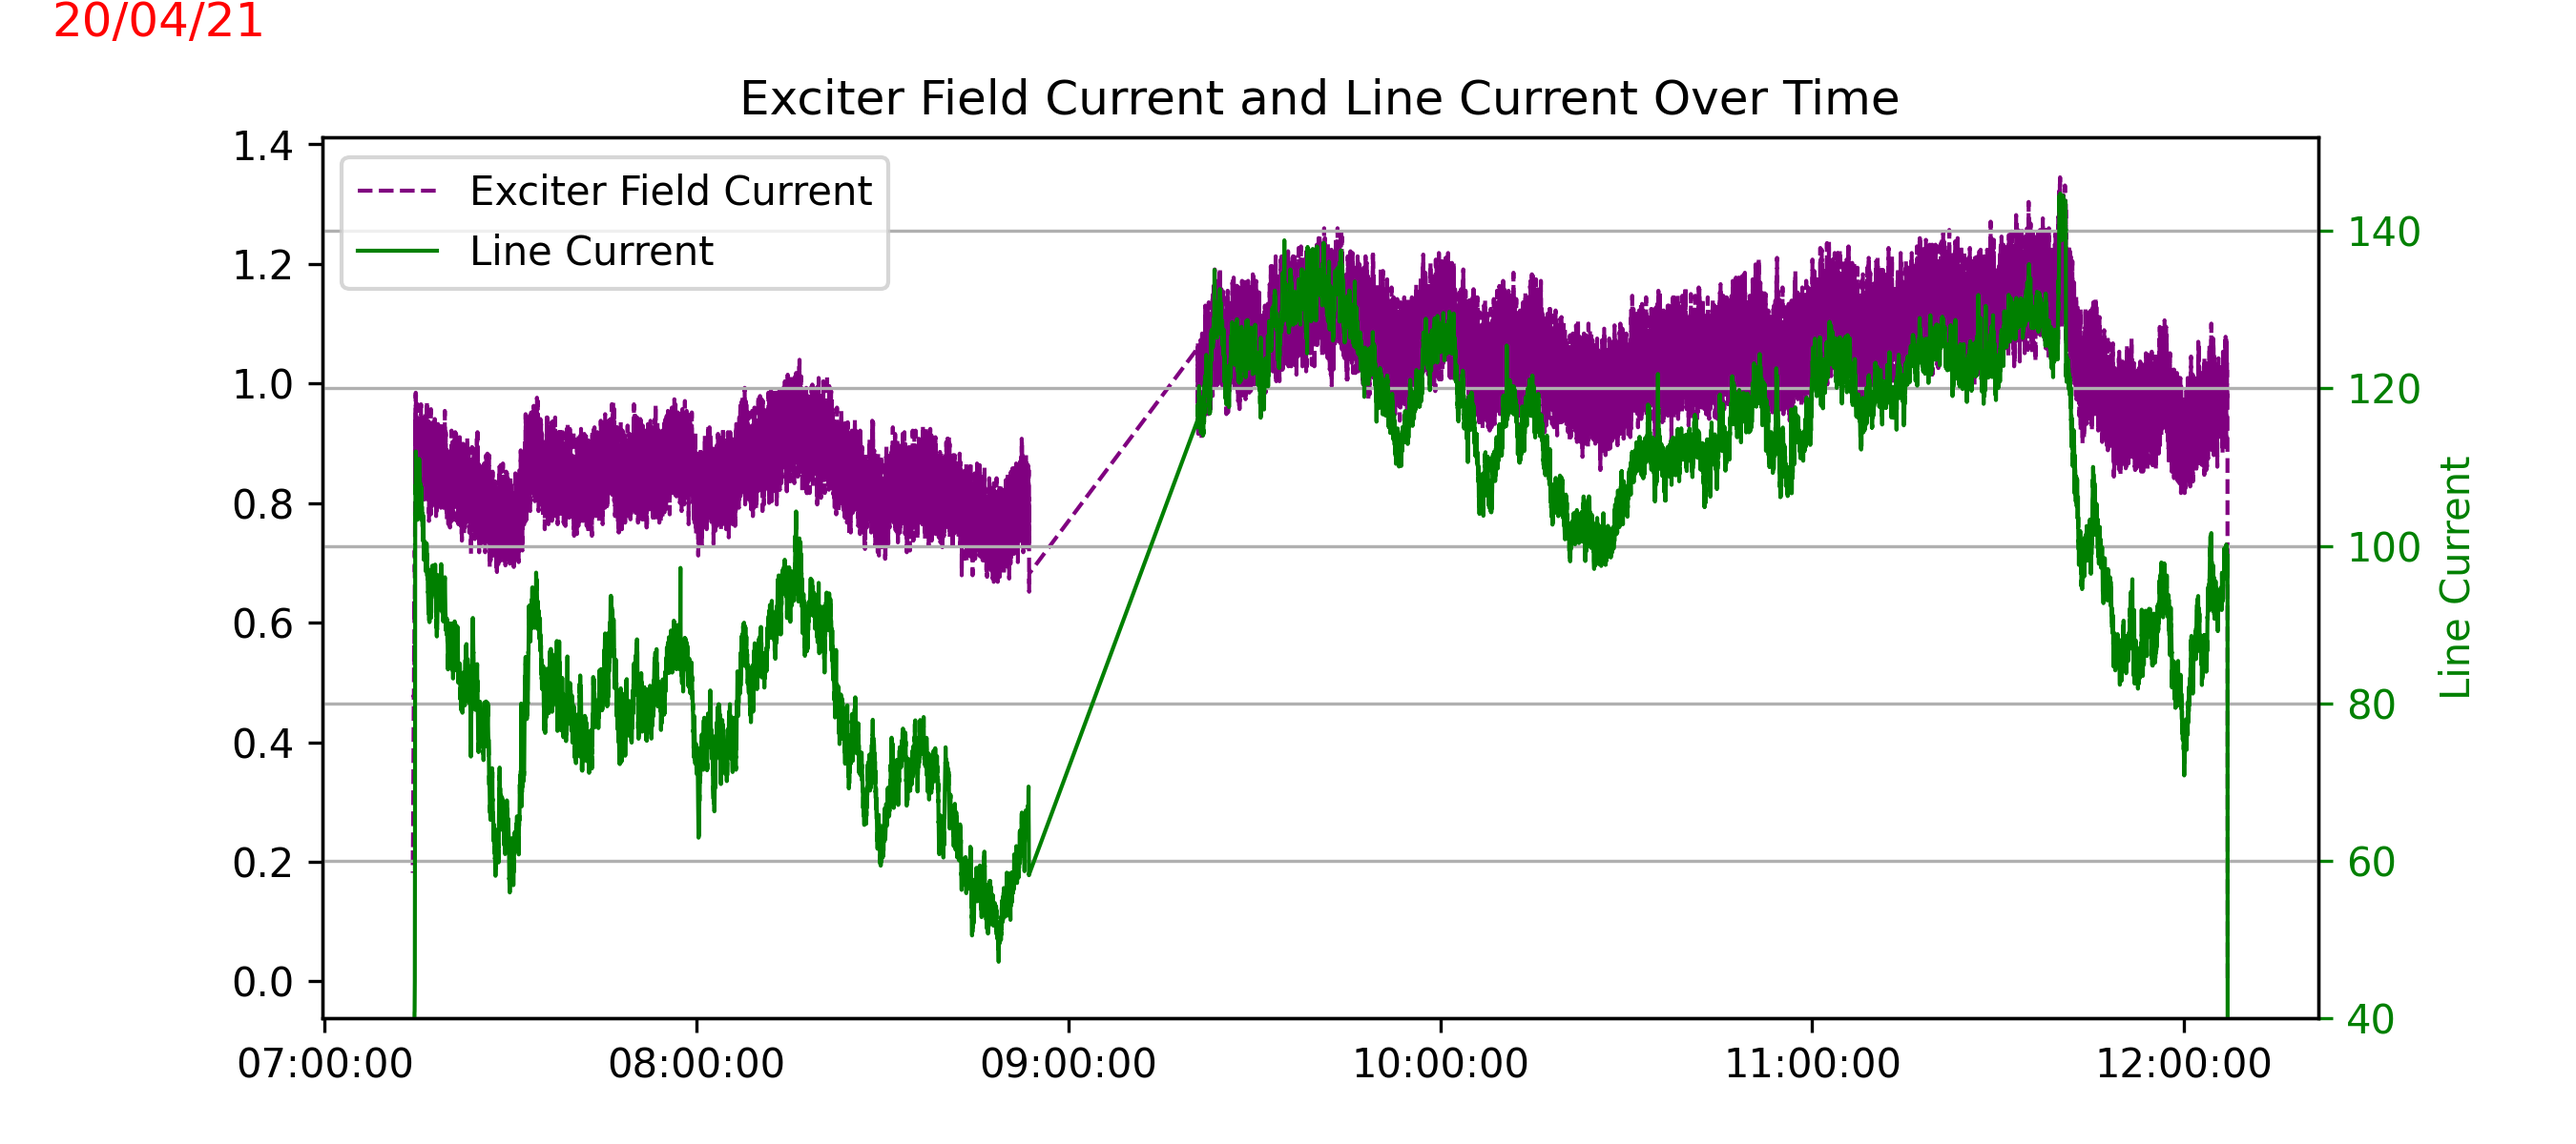
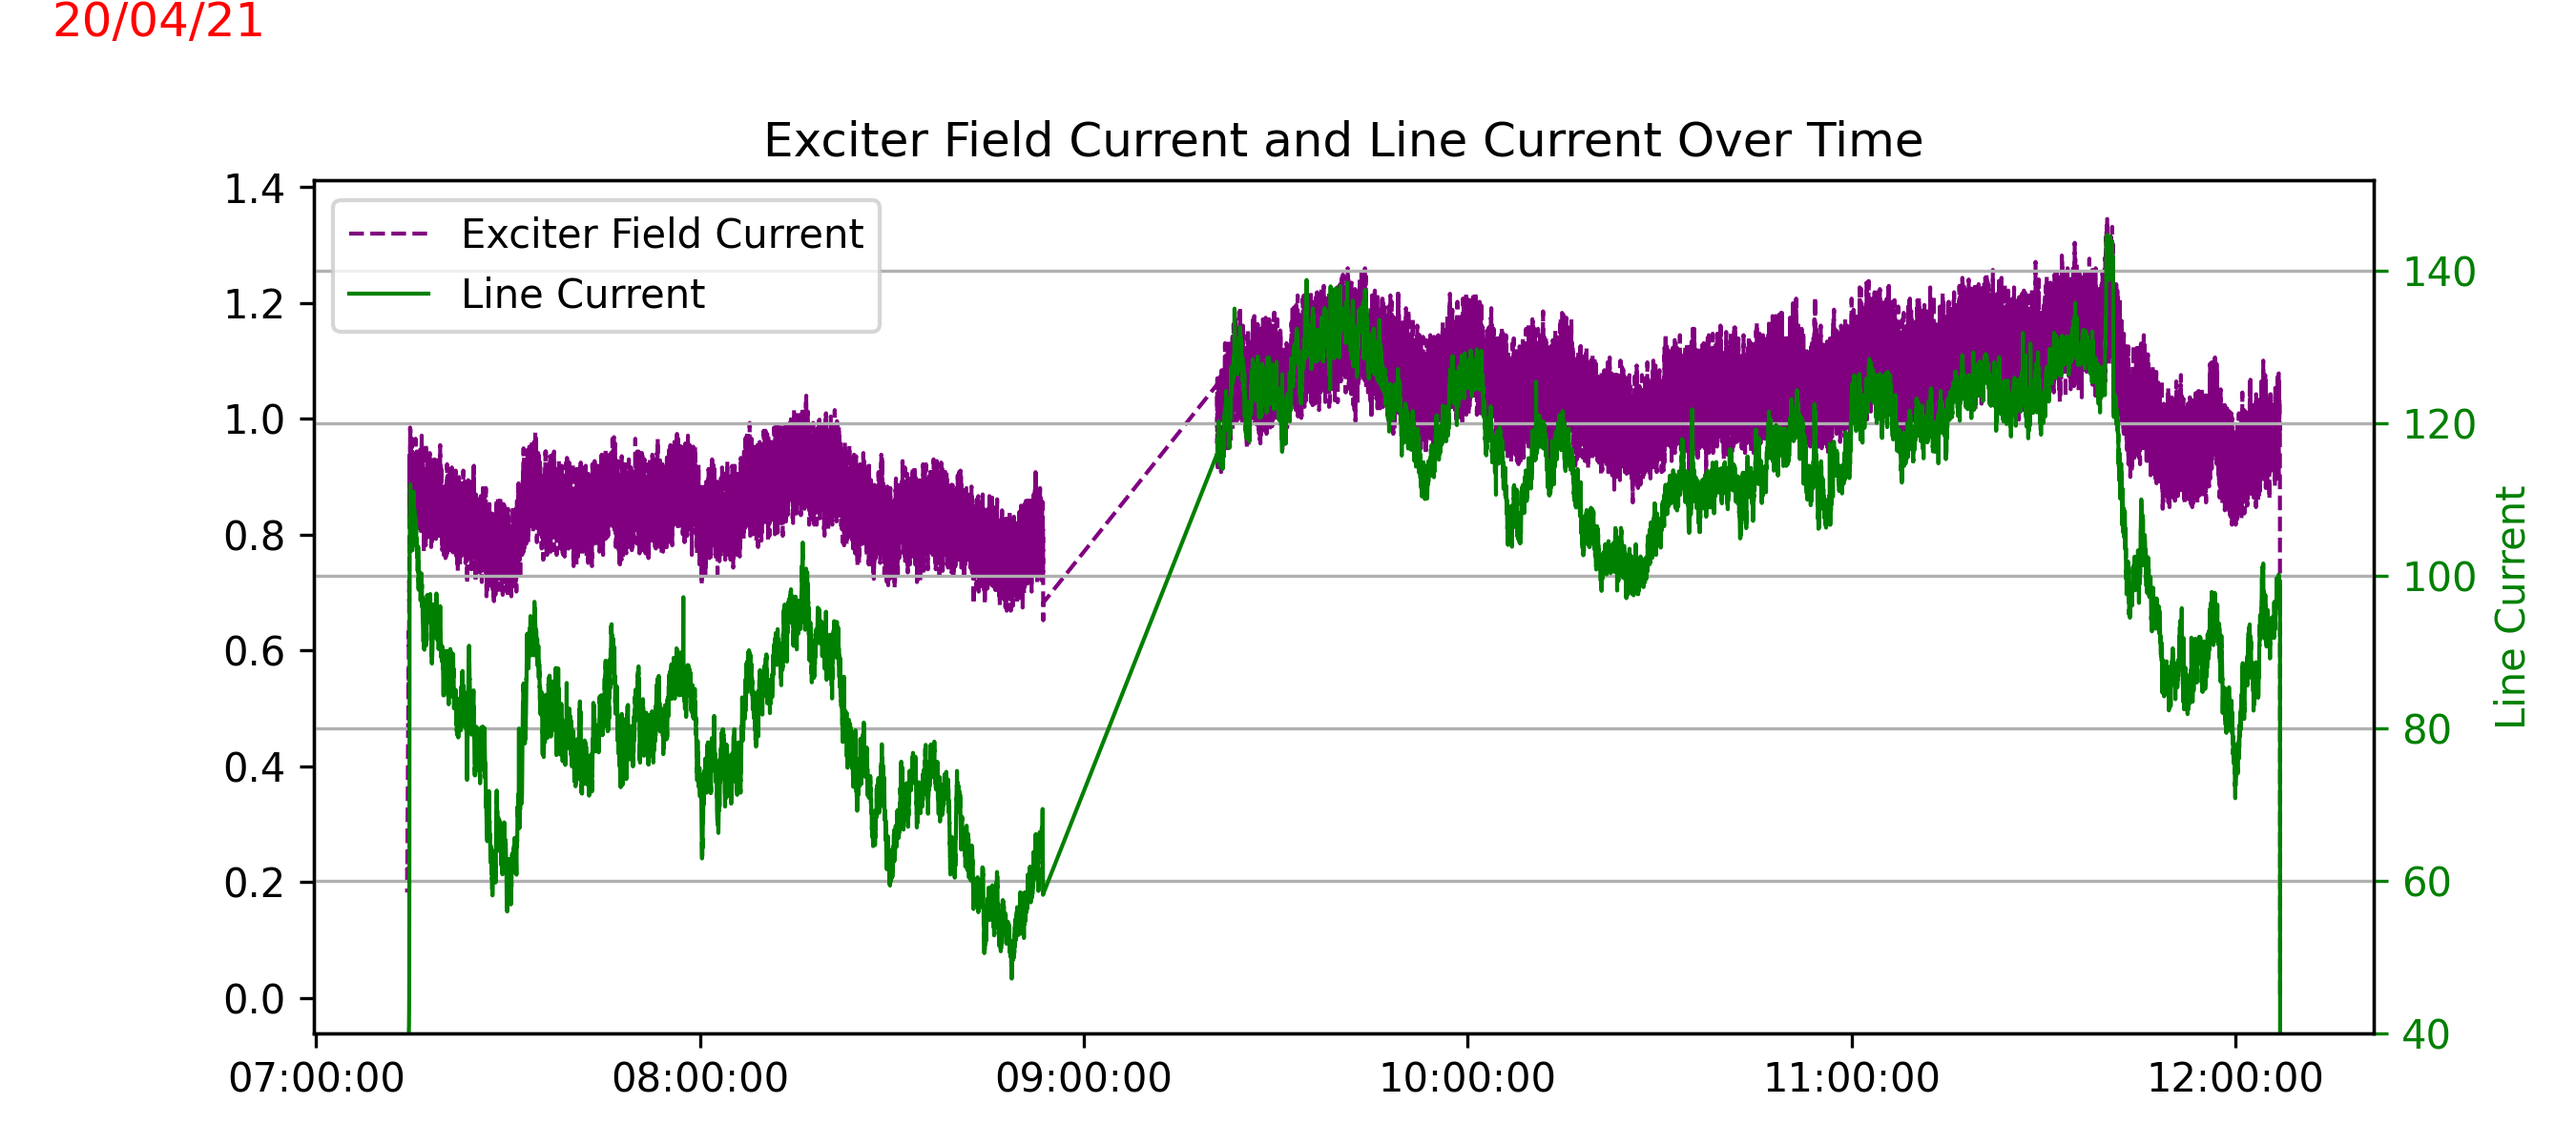
Added another subplot (Reactive Power)

Changed region(s): [[0.0933, 0.0617, 0.9956, 0.9558], [0.0933, 0.5242, 0.1244, 0.5858], [0.9644, 0.5242, 0.9956, 0.555]]

diff --git a/Matplotlib-Practice.py b/Matplotlib-Practice.py
@@ -39,7 +39,6 @@ plt.show()
 data = pd.read_csv("export_1662385061.csv") # Load Data
 
 # Convert 'timestamp' to datetime
-
 df = pd.DataFrame(data)
 df['timestamp'] = pd.to_datetime(df['timestamp'])
 
@@ -82,9 +81,24 @@ plt.grid(True)
 
 #plt.xticks(ticks=df['timestamp'], rotation=45)
 
+plt.tight_layout()
+
 # Save figure with high DPI for better quality 
 plt.savefig("Current-Time-Plot.png", dpi = 300)
 
+fig2, (ax1, ax2) = plt.subplots(nrows=2, ncols=1)
+ax1.xaxis.set_major_formatter(mdates.DateFormatter('%H:%M:%S'))
+ax1.xaxis.set_major_locator(mdates.AutoDateLocator())
+
+ax2.xaxis.set_major_formatter(mdates.DateFormatter('%H:%M:%S'))
+ax2.xaxis.set_major_locator(mdates.AutoDateLocator())
+
+ax1.plot(df['timestamp'], df['Reactive Power'], color='red', linewidth=1,  label='Reactive Power')
+ax2.plot(df['timestamp'], df['Ambient Temperature'], color='blue', linewidth=1,  label='Ambient Temperature')
+plt.xlabel("Time")
+ax1.set_ylabel("Reactive Power", color='red')
+ax2.set_ylabel("Ambient Temperature", color='blue')
+plt.grid(True)
+
 # Display the plot
 plt.show()
-
